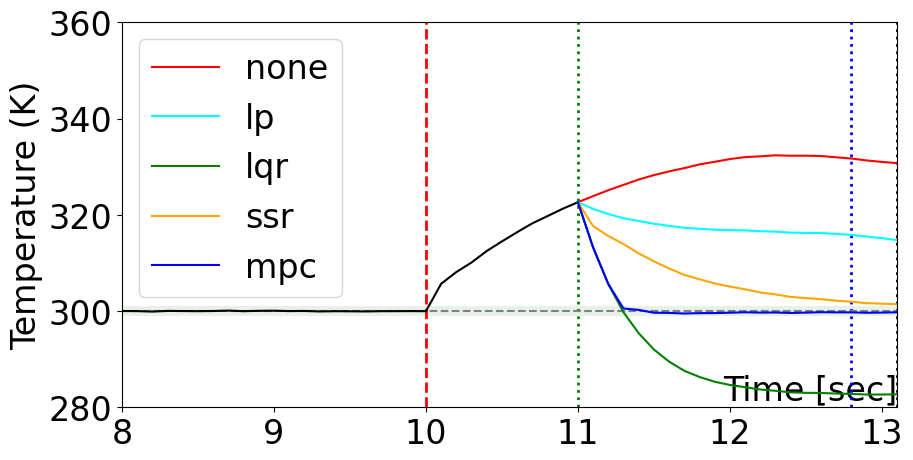
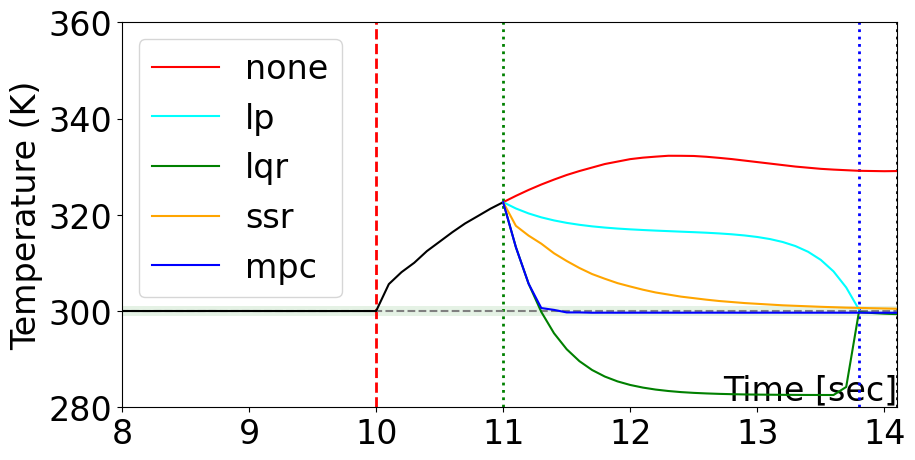
latest

diff --git a/rtas/compare_all.py b/rtas/compare_all.py
@@ -2,6 +2,7 @@ import logging
 import os
 import sys
 from copy import deepcopy
+from black import main
 
 import matplotlib.pyplot as plt
 import numpy as np
@@ -80,7 +81,7 @@ for exp in exps:
             exp.model.cur_feedback = exp.attack.launch(exp.model.cur_feedback, i, exp.model.states)
             if i == exp.attack_start_index - 1:
                 logger.debug(f'trustworthy_index={i}, trustworthy_state={exp.model.cur_x}')
-            if exp.recovery_index <= i < recovery_complete_index + maintain_time:
+            if exp.recovery_index <= i < recovery_complete_index:
                 logger.debug(f'recovery_index={i}, recovery_start_state={exp.model.cur_x}')
                 
                 # State reconstruction
@@ -97,7 +98,7 @@ for exp in exps:
                     control = exp.model.inputs[i-1]
                     k = non_est.get_deadline(x_cur, safe_set_lo, safe_set_up, control, max_k=100)
                     deadline_for_all_methods = k
-                    recovery_complete_index = exp.attack_start_index + k
+                    recovery_complete_index = exp.recovery_index + k
                     logger.debug(f'deadline={k}')
                 # maintainable time compute
 
@@ -110,7 +111,7 @@ for exp in exps:
                 mpc_settings = {
                     'Ad': Ad, 'Bd': Bd, 'c_nonlinear': cd,
                     'Q': exp.Q, 'QN': exp.QN, 'R': exp.R,
-                    'N': k+maintain_time-(i-exp.recovery_index), # horizon (N) keeps decreasing in receding horizon MPC 
+                    'N': k+maintain_time+1-(i-exp.recovery_index), # horizon (N) keeps decreasing in receding horizon MPC 
                     'ddl': k-(i-exp.recovery_index), 'target_lo': exp.target_set_lo, 'target_up': exp.target_set_up,
                     'safe_lo': exp.safe_set_lo, 'safe_up': exp.safe_set_up,
                     'control_lo': exp.control_lo, 'control_up': exp.control_up,
@@ -125,11 +126,15 @@ for exp in exps:
                 u = rec_u[0]
                 exp.model.evolve(u)
                 print(f'after evolve - {exp.model.cur_x=}')
-
+            elif recovery_complete_index <= i < recovery_complete_index + maintain_time + 1:
                 if i == recovery_complete_index:
                     logger.debug(f'state after recovery={exp.model.cur_x}')
                     step = recovery_complete_index - exp.recovery_index
                     logger.debug(f'use {step} steps to recover.')
+
+                u = rec_u[i-recovery_complete_index+1]
+                exp.model.evolve(u)
+                print(f'after evolve - {exp.model.cur_x=}')
             else:
                 exp.model.evolve()
 
@@ -189,7 +194,7 @@ for exp in exps:
                 # get recovery control sequence
                 lp_settings = {
                     'Ad': A, 'Bd': B, 'c_nonlinear': c,
-                    'N': k,
+                    'N': k+maintain_time,
                     'ddl': k, 'target_lo': exp.target_set_lo, 'target_up': exp.target_set_up,
                     'safe_lo': exp.safe_set_lo, 'safe_up': exp.safe_set_up,
                     'control_lo': exp.control_lo, 'control_up': exp.control_up,
@@ -201,15 +206,16 @@ for exp in exps:
                 rec_x = lp.get_last_x()
                 logger.debug(f'expected recovery state={rec_x}')
 
-            if exp.recovery_index <= i < recovery_complete_index:
+            if i == recovery_complete_index:
+                logger.debug(f'state after recovery={exp.model.cur_x}')
+                step = recovery_complete_index - exp.recovery_index
+                logger.debug(f'use {step} steps to recover.')
+
+            if exp.recovery_index <= i < recovery_complete_index + maintain_time:
                 rec_u_index = i - exp.recovery_index
                 u = rec_u[rec_u_index]
                 exp.model.evolve(u)
             else:
-                if i == recovery_complete_index:
-                    logger.debug(f'state after recovery={exp.model.cur_x}')
-                    step = recovery_complete_index - exp.recovery_index
-                    logger.debug(f'use {step} steps to recover.')
                 exp.model.evolve()
 
         exp_rst[bl] = {}
@@ -271,7 +277,7 @@ for exp in exps:
                     'Ad': A, 'Bd': B, 'c_nonlinear': c,
                     'Q': Q_lqr, 'QN': QN_lqr, 'R': R_lqr,
                     # 'Q': exp.Q, 'QN': exp.QN, 'R': exp.R,
-                    'N': k + 3,
+                    'N': k + maintain_time,
                     'ddl': k, 'target_lo': exp.target_set_lo, 'target_up': exp.target_set_up,
                     'safe_lo': exp.safe_set_lo, 'safe_up': exp.safe_set_up,
                     'control_lo': exp.control_lo, 'control_up': exp.control_up,
@@ -390,7 +396,7 @@ for exp in exps:
         plt.vlines(exp.attack_start_index*exp.dt, exp.y_lim[0], exp.y_lim[1], colors='red', linestyle='dashed', linewidth=2)
         plt.vlines(exp.recovery_index*exp.dt, exp.y_lim[0], exp.y_lim[1], colors='green', linestyle='dotted', linewidth=2)
         
-        recovery_complete_index = exp.attack_start_index + deadline_for_all_methods
+        recovery_complete_index = exp.recovery_index + deadline_for_all_methods
         # print(recovery_complete_index)
         plt.vlines((recovery_complete_index)*exp.dt, exp.y_lim[0], exp.y_lim[1], colors='blue', linestyle='dotted', linewidth=2)
         plt.vlines((recovery_complete_index + maintain_time)*exp.dt, exp.y_lim[0], exp.y_lim[1], colors='black', linestyle='dotted', linewidth=2)
@@ -416,5 +422,7 @@ for exp in exps:
     plt.ylabel(exp.y_label)
     plt.xlabel('Time [sec]', loc='right', labelpad=-55)
     plt.legend()
-    plt.savefig(f'fig/{exp.name}_all.png', format='png', bbox_inches='tight')
+    import time
+    thistime = time.time()
+    plt.savefig(f'fig/{exp.name}_all_{thistime}.png', format='png', bbox_inches='tight')
     # plt.show()

diff --git a/rtas/settings.py b/rtas/settings.py
@@ -117,7 +117,7 @@ class cstr_bias:
     noise = {
         'process': {
             'type': 'box_uniform',
-            'param': {'lo': np.array([-0.000001, -0.1]), 'up': np.array([0.0001, 0.1])}
+            'param': {'lo': np.array([0, 0]), 'up': np.array([0.0001, 0.01])} # change 0.01 to 1 or 5 or something
         }
     }
     # noise = None
@@ -151,7 +151,7 @@ class cstr_bias:
 
     # plot
     y_lim = (280, 360)
-    x_lim = (8, dt * 131)
+    x_lim = (8, dt * 141)
     y_label = 'Temperature'
     strip = (target_set_lo[output_index], target_set_up[output_index])
     y_label = 'Temperature (K)'
